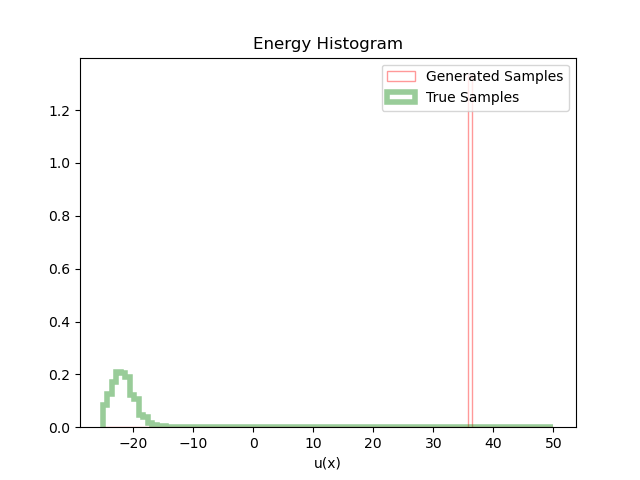
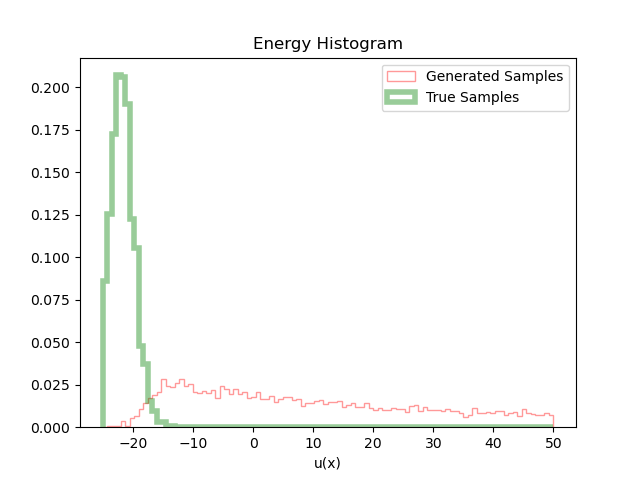
plotted the final ones

diff --git a/eval_and_plot.py b/eval_and_plot.py
@@ -156,7 +156,7 @@ def plot_generating_flow(args, data, flow, prior, target, latent, samples, model
     
     # Changes based on the flow type (Diffeq for kernel/new and FFJORD for egnn) 
     if "kernel" or "new" in args.model:
-        x, dlogp = flow(latent, inverse=True)
+        x, dlogp = flow(latent, inverse=False)
         x = x.view(samples, -1)
     else:
         sampling = True
